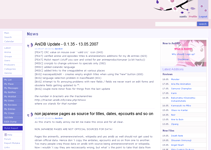
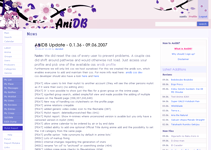
Added the quality stars to zakura* (also updated thumbnail.png)
@Zak try to modify also the *.i_ instead of just replacing images :P

git-svn-id: svn://dev.anidb.net/svn/trunk@162 bed53a55-4da3-433c-baf4-d4f70f2fd34a

diff --git a/css/zakura/icons.css b/css/zakura/icons.css
@@ -85,10 +85,18 @@ img[src*="anidb_file_ed2k.gif"] {
 	width: 0;
 	padding-left: 15px;
 }
+*.i_rate_star {
+  width: 15px;
+  background: transparent url(images/icons/star.png) no-repeat left top;
+}
 img[src*="anidb_rate_star.gif"] {
 	background: transparent url(images/icons/star.png) no-repeat left top;
 	width: 0;
 	padding-left: 15px;
+}
+*.i_rate_halfstar {
+  width: 15px;
+  background: transparent url(images/icons/star-half.png) no-repeat left top;
 }
 img[src*="anidb_rate_halfstar.gif"] {
 	background: transparent url(images/icons/star-half.png) no-repeat left top;
